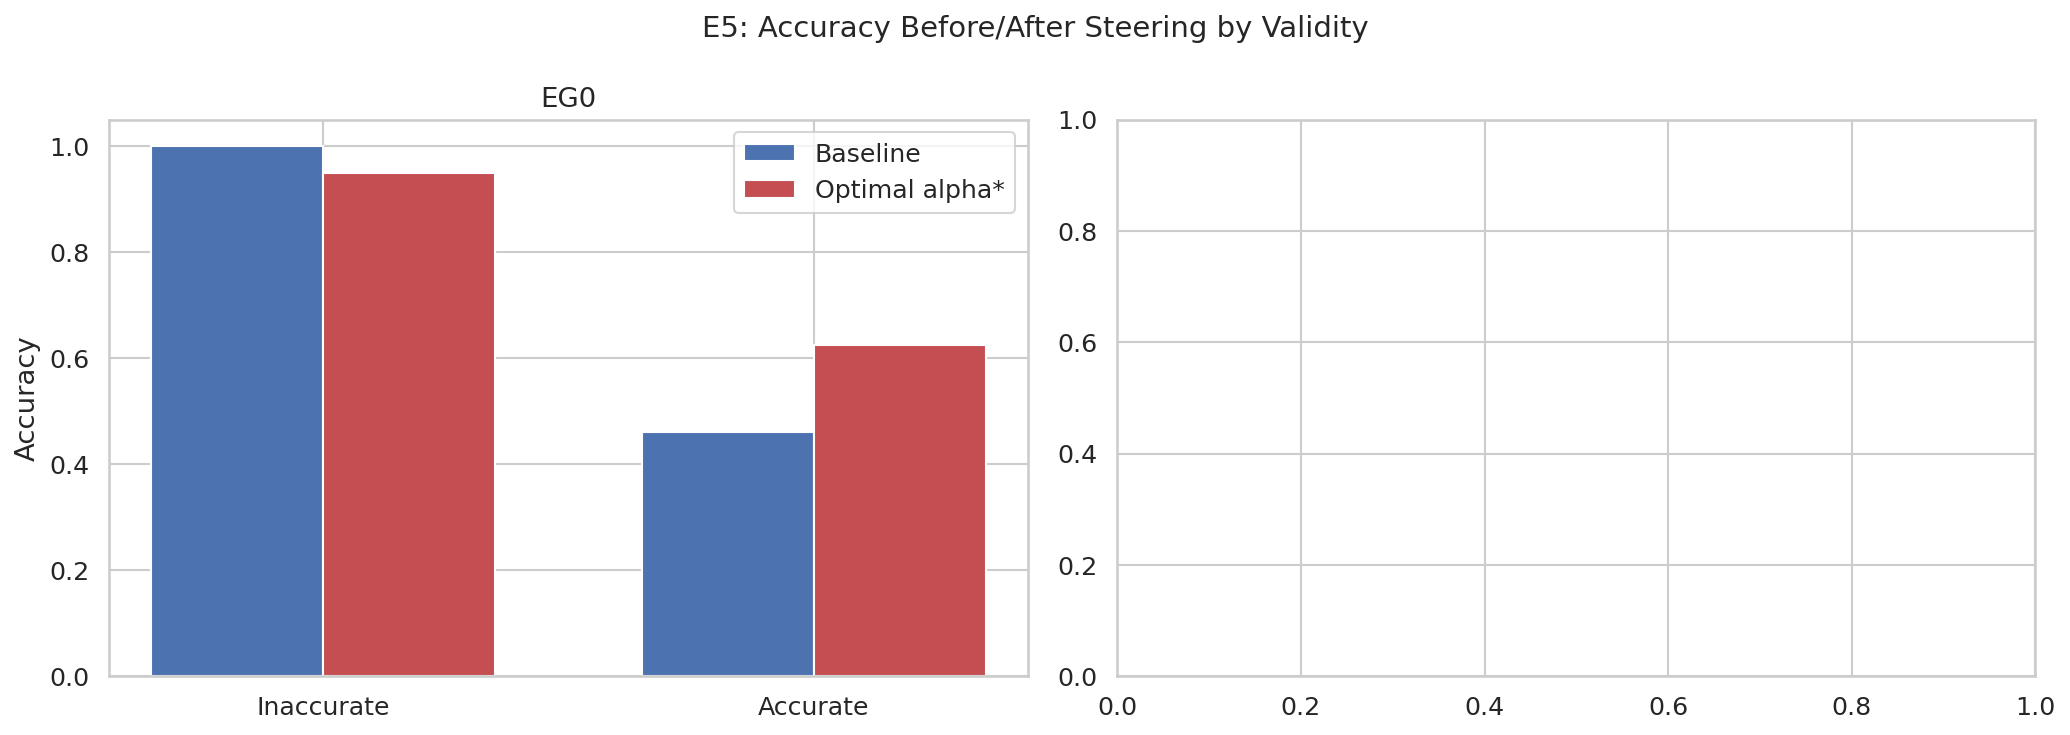
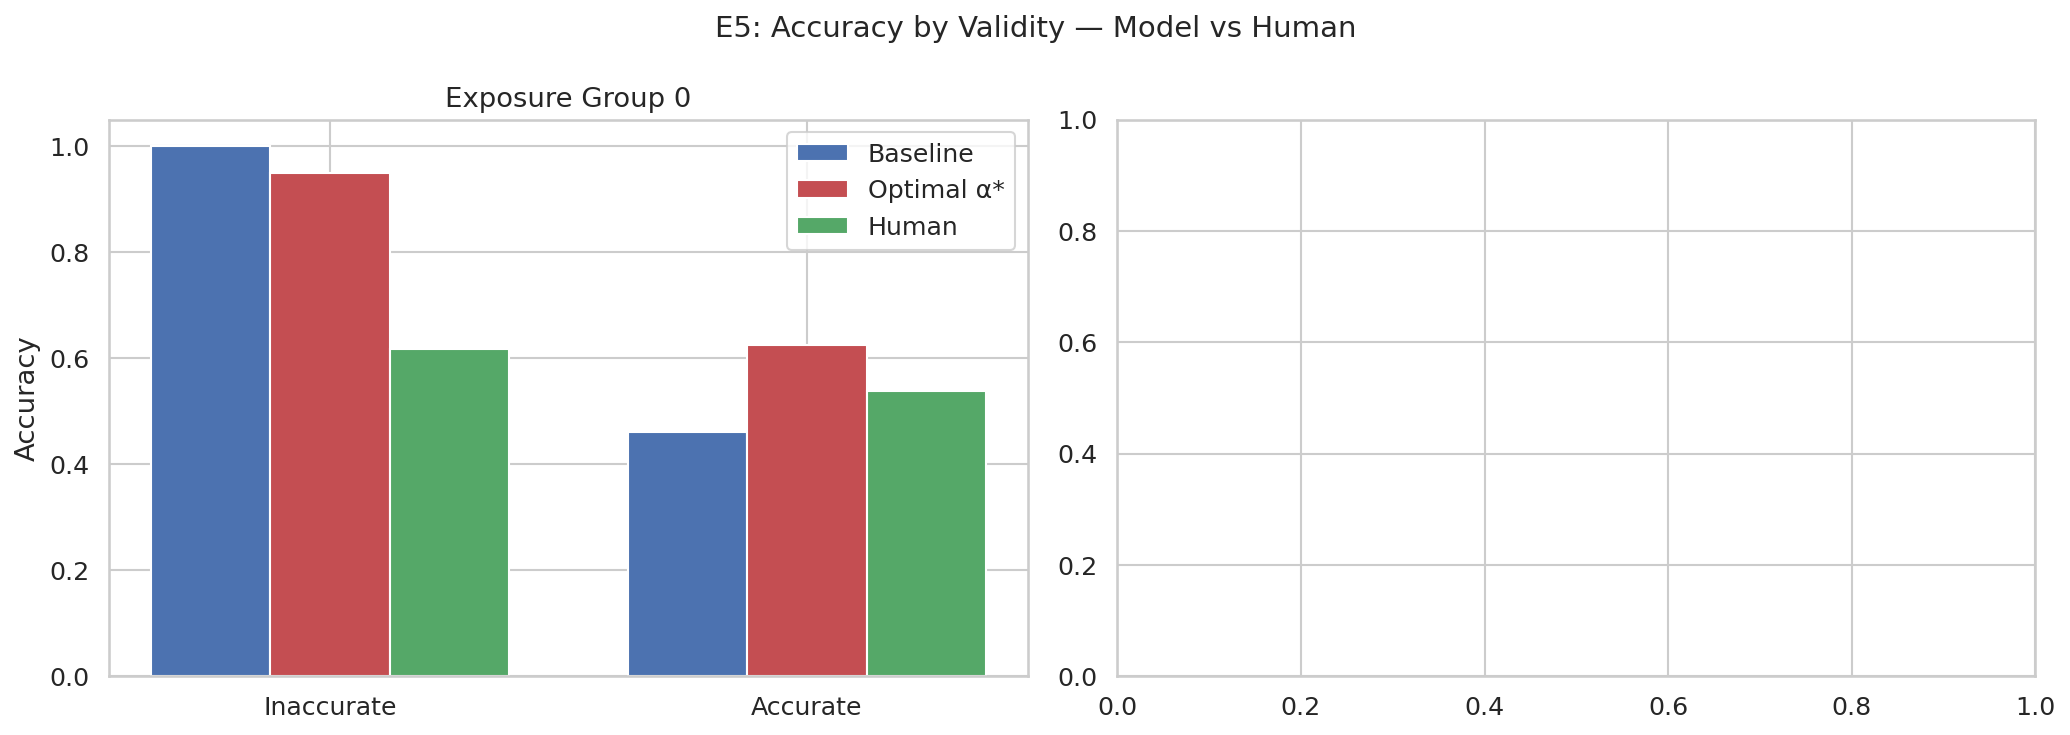
human_e5

diff --git a/experiments/run_E5.py b/experiments/run_E5.py
@@ -100,6 +100,11 @@ def main():
     statements = load_statements()
     item_order = statements["item_id"].tolist()
 
+    # ── Human per-item ECE (self-calibration) ────────────────────────────
+    item_stats["human_ece"] = np.abs(
+        item_stats["human_conf_norm"] - item_stats["human_accuracy"]
+    )
+
     # ── Build analysis DataFrame per EG ──────────────────────────────────
     results_by_validity = {}
 
@@ -147,10 +152,14 @@ def main():
             ece_opt  = float(np.mean(np.abs(sub["opt_conf"] - sub["human_conf_norm"])))
             delta = ece_base - ece_opt  # positive = improvement
 
+            # Human self-calibration ECE: |conf - accuracy| per item
+            human_ece = float(sub["human_ece"].mean())
+
             # Accuracy metrics
             base_acc_vals = [baseline_accs.get(iid, np.nan) for iid in sub["item_id"]]
             mean_base_acc = float(np.nanmean(base_acc_vals))
             mean_opt_acc = float(sub["opt_acc"].mean())
+            mean_human_acc = float(sub["human_accuracy"].mean())
 
             key = f"EG{eg}_{validity}"
             results_by_validity[key] = {
@@ -158,6 +167,7 @@ def main():
                 "validity": validity,
                 "ece_baseline": ece_base,
                 "ece_optimal": ece_opt,
+                "ece_human": human_ece,
                 "delta_ece": delta,
                 "n_items": len(sub),
                 "mean_human_conf": float(sub["human_conf_norm"].mean()),
@@ -165,10 +175,12 @@ def main():
                 "mean_opt_conf": float(sub["opt_conf"].mean()),
                 "mean_baseline_acc": mean_base_acc,
                 "mean_opt_acc": mean_opt_acc,
+                "mean_human_acc": mean_human_acc,
             }
             log.info(
-                f"  {key}: ECE_base={ece_base:.4f} ECE_opt={ece_opt:.4f} "
-                f"ΔECE={delta:+.4f} acc_base={mean_base_acc:.4f} acc_opt={mean_opt_acc:.4f}"
+                f"  {key}: ECE_base={ece_base:.4f} ECE_opt={ece_opt:.4f} ECE_human={human_ece:.4f} "
+                f"ΔECE={delta:+.4f} acc_base={mean_base_acc:.4f} acc_opt={mean_opt_acc:.4f} "
+                f"acc_human={mean_human_acc:.4f}"
             )
 
     # Save results
@@ -199,33 +211,34 @@ def main():
     ax.legend(title="Exposure")
     save_plot(fig, plot_dir, "E5_delta_ece_by_validity_eg")
 
-    # ── 2. ECE Before/After by Validity ──────────────────────────────
+    # ── 2. ECE Before/After by Validity (incl. Human) ────────────────
     fig, axes = plt.subplots(1, 2, figsize=(14, 5))
     for ax, eg in zip(axes, EXPOSURE_GROUPS):
         sub = rdf[rdf["exposure_group"] == eg]
         if len(sub) == 0:
             continue
         x = np.arange(len(sub))
-        w = 0.35
-        ax.bar(x - w / 2, sub["ece_baseline"], w, label="Baseline", color=BASELINE_COLOR)
-        ax.bar(x + w / 2, sub["ece_optimal"], w, label="Optimal alpha*", color=OPTIMAL_COLOR)
+        w = 0.25
+        ax.bar(x - w, sub["ece_baseline"], w, label="Baseline", color=BASELINE_COLOR)
+        ax.bar(x, sub["ece_optimal"], w, label="Optimal α*", color=OPTIMAL_COLOR)
+        ax.bar(x + w, sub["ece_human"], w, label="Human", color=HUMAN_COLOR)
         ax.set_xticks(x)
         ax.set_xticklabels(sub["validity"])
         ax.set_ylabel("ECE")
         ax.set_title(f"{EG_LABELS[eg]}")
         ax.legend()
-    fig.suptitle("E5: ECE Before/After Steering by Validity", fontsize=14)
+    fig.suptitle("E5: ECE by Validity — Model vs Human", fontsize=14)
     plt.tight_layout()
     save_plot(fig, plot_dir, "E5_ece_before_after")
 
     # ── 3. Interaction Heatmap (Exposure x Validity) ─────────────────
-    fig, axes = plt.subplots(1, 3, figsize=(18, 5))
+    fig, axes = plt.subplots(1, 4, figsize=(22, 5))
 
     for ax, metric, title, cmap in zip(
         axes,
-        ["delta_ece", "ece_baseline", "ece_optimal"],
-        ["ΔECE (improvement)", "ECE Baseline", "ECE Optimal"],
-        ["RdYlGn", "YlOrRd", "YlOrRd"],
+        ["delta_ece", "ece_baseline", "ece_optimal", "ece_human"],
+        ["ΔECE (improvement)", "ECE Baseline", "ECE Optimal", "ECE Human"],
+        ["RdYlGn", "YlOrRd", "YlOrRd", "YlOrRd"],
     ):
         pivot = rdf.pivot(
             index="exposure_group", columns="validity", values=metric
@@ -287,7 +300,7 @@ def main():
     ax.legend(title="Source")
     save_plot(fig, plot_dir, "E5_mean_conf_comparison")
 
-    # ── 6. Accuracy Before/After by Validity ─────────────────────────
+    # ── 6. Accuracy by Validity (incl. Human) ────────────────────────
     if "mean_baseline_acc" in rdf.columns:
         fig, axes = plt.subplots(1, max(len(EXPOSURE_GROUPS), 2), figsize=(14, 5))
         if len(EXPOSURE_GROUPS) == 1:
@@ -297,15 +310,16 @@ def main():
             if len(sub) == 0:
                 continue
             x = np.arange(len(sub))
-            w = 0.35
-            ax.bar(x - w / 2, sub["mean_baseline_acc"], w, label="Baseline", color=BASELINE_COLOR)
-            ax.bar(x + w / 2, sub["mean_opt_acc"], w, label="Optimal alpha*", color=OPTIMAL_COLOR)
+            w = 0.25
+            ax.bar(x - w, sub["mean_baseline_acc"], w, label="Baseline", color=BASELINE_COLOR)
+            ax.bar(x, sub["mean_opt_acc"], w, label="Optimal α*", color=OPTIMAL_COLOR)
+            ax.bar(x + w, sub["mean_human_acc"], w, label="Human", color=HUMAN_COLOR)
             ax.set_xticks(x)
             ax.set_xticklabels(sub["validity"])
             ax.set_ylabel("Accuracy")
             ax.set_title(f"{EG_LABELS[eg]}")
             ax.legend()
-        fig.suptitle("E5: Accuracy Before/After Steering by Validity", fontsize=14)
+        fig.suptitle("E5: Accuracy by Validity — Model vs Human", fontsize=14)
         plt.tight_layout()
         save_plot(fig, plot_dir, "E5_accuracy_before_after")
 
